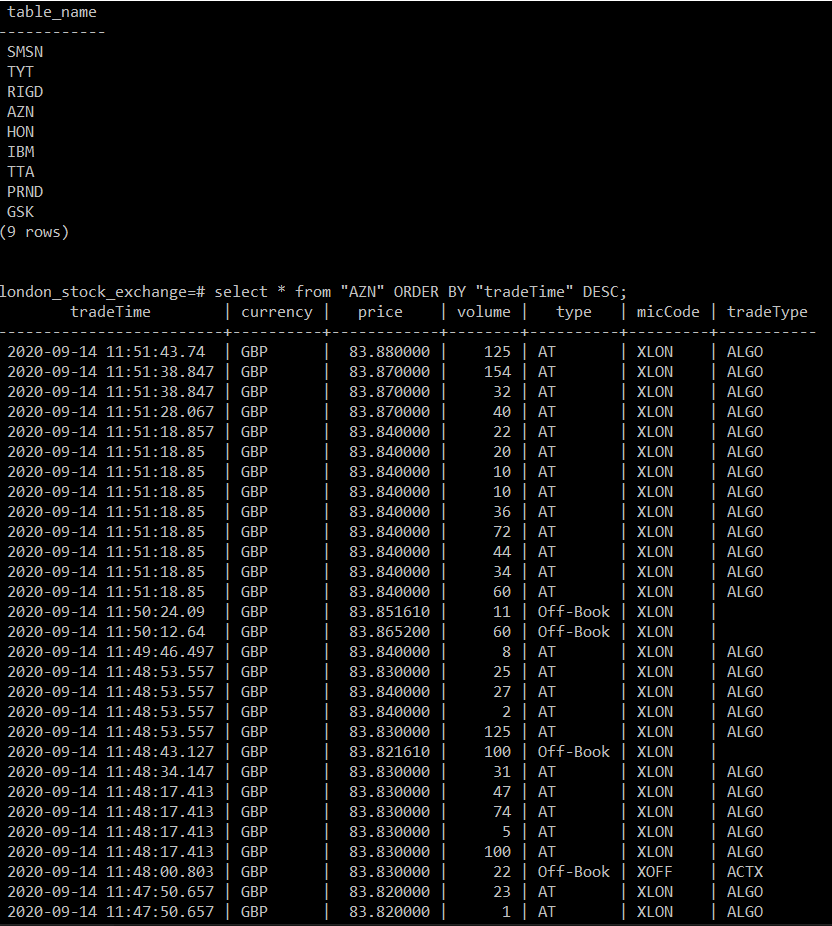
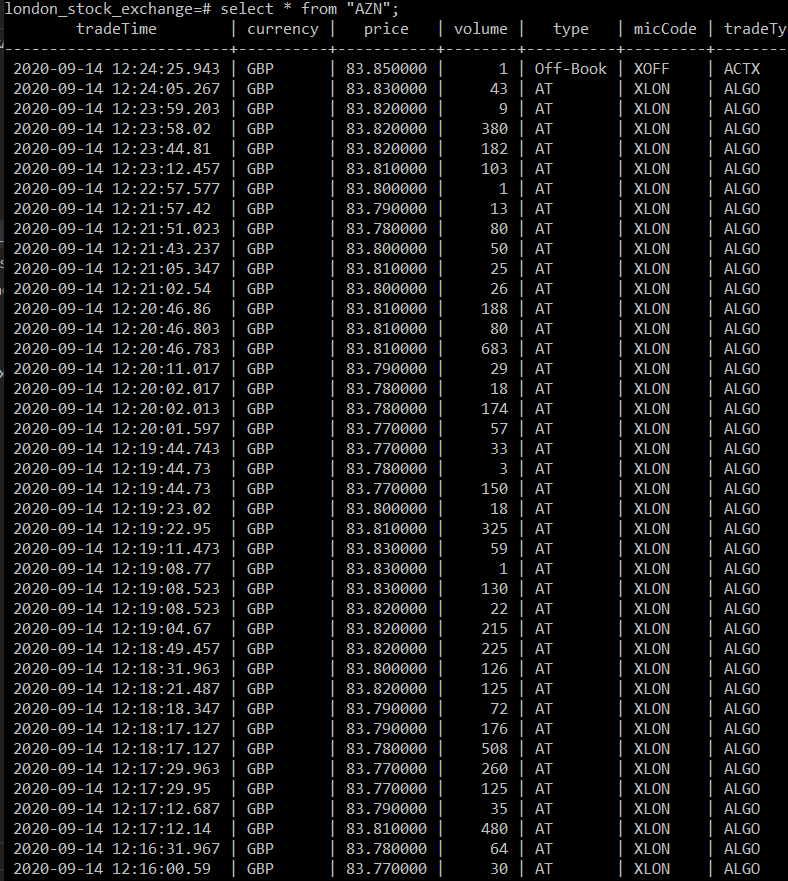
grouped postgre data

Changed region(s): [[0.0, 0.0, 1.0, 1.0]]

diff --git a/postgre/london_stock_data.py b/postgre/london_stock_data.py
@@ -36,6 +36,10 @@ class london_stock_exchange:
                 self.df.loc[(self.df['currency']=='GBX'),'currency']='GBP'
                 # drop column that can be calculated from other cols
                 self.df=self.df.drop(columns=['tradeValue'])
+                # group observations that are otherwise duplicates but have just different volume
+                self.df=self.df.groupby(['tradeTime','currency','price','type','micCode','tradeType'],as_index=False)['volume'].sum()
+                self.df=self.df.drop_duplicates(subset=['tradeTime','currency','price','type','micCode','tradeType'])
+                self.df=self.df.sort_values(by='tradeTime',ascending=False)
 
                 print('Fetched',stock,': df size',self.df.shape)
                 return True
